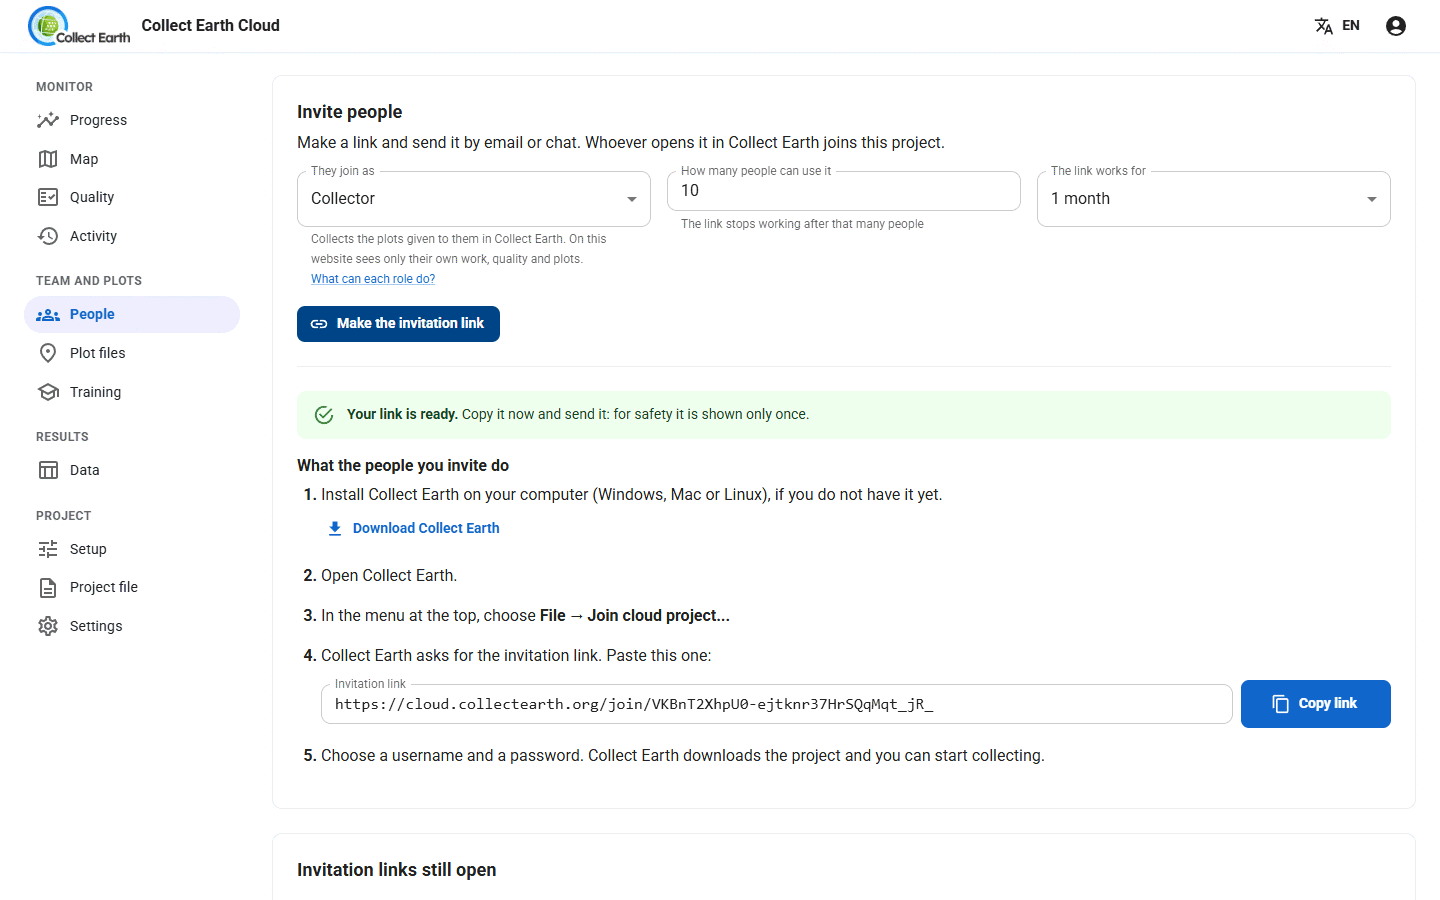
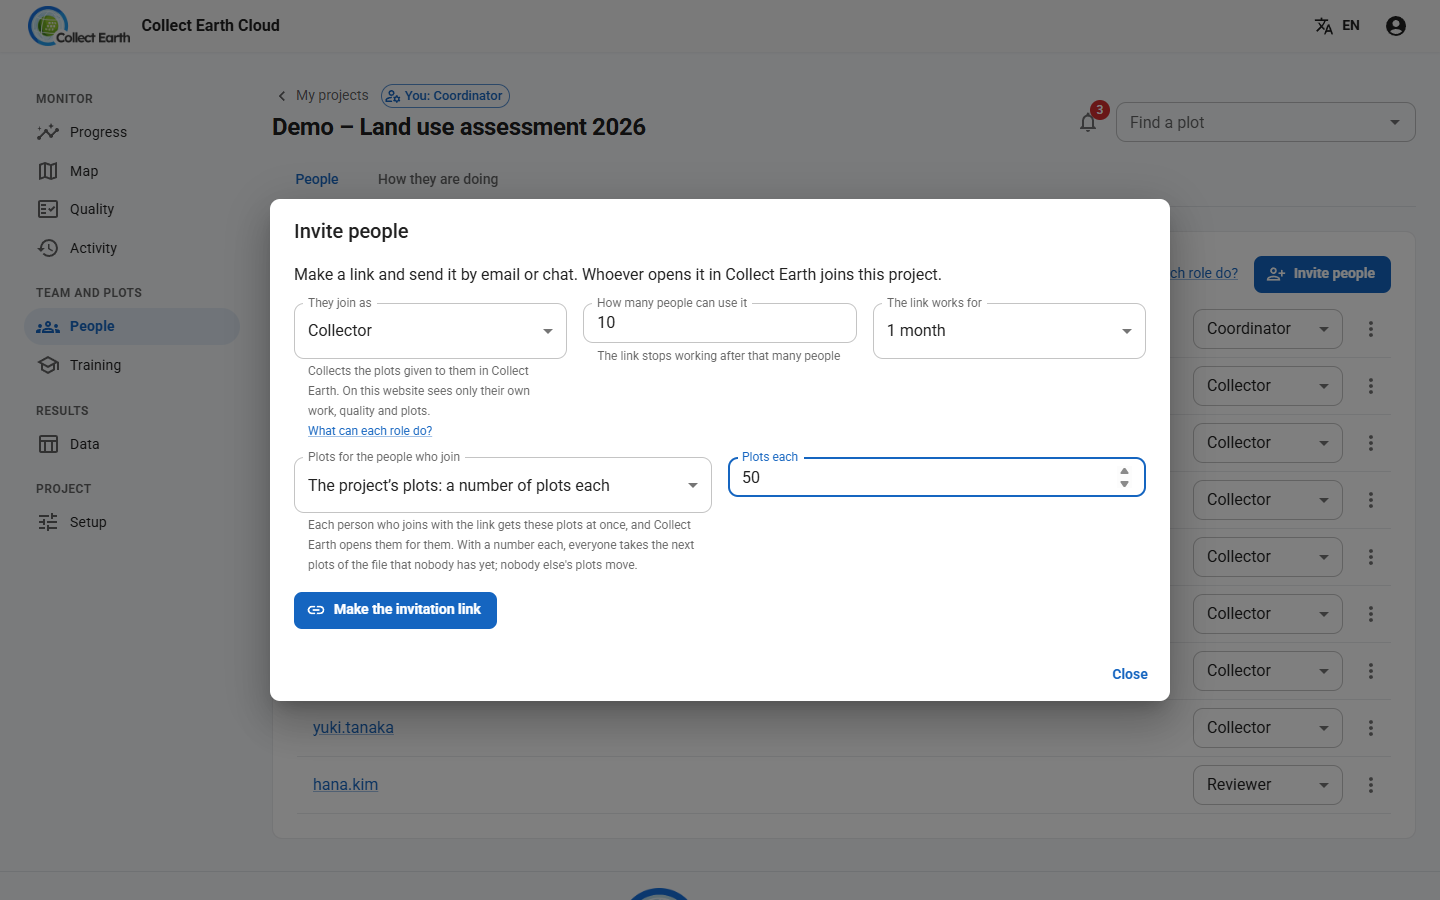
Website: new screenshots of the dashboard and of Collect Earth
Every dashboard screenshot is retaken with Setup in the sidebar: the project's plots, the
invitation that gives plots, the division of the project's plots, a training set for the whole
team, the quality figures. The desktop ones show the Explorer button, the four settings tabs
and the cloud accounts under Data storage. All from invented demo data, with local paths and
addresses masked. Captions follow the new pictures; the export's third format is CSV for Collect.

Claude-Session: https://claude.ai/code/session_015tsWZ6qFfmCXDKURC7KrcT

diff --git a/guide/coordinators.html b/guide/coordinators.html
@@ -109,16 +109,16 @@
   <p>No plot file yet? <span class="ui">Design the plots</span> makes one for you: draw plots <span class="ui">At random</span>, <span class="ui">On a grid</span> or <span class="ui">At random within strata</span> in an area, or take them from SIGRID, the global systematic grid, by country, province or district. <a href="sampling.html">Designing the sample</a> explains these, and the Grid Generator on Google Earth Engine, which adds elevation, climate, soil and more to each plot.</p>
   <p>To turn plots into hectares, give the areas in <span class="ui">Setup › Areas</span>: choose the question or the plot-file columns that make the strata (a province, a forest class…) and type each stratum's area, give <span class="ui">One total area</span>, or drop an <code>areas_per_attribute.csv</code>. The analysis, the IPCC uncertainty and the downloads then share each stratum's area among its assessed plots.</p>
   <p>Someone going where there is no internet, or a project leaving the cloud? Under <span class="ui">Download for working alone</span>, choose <span class="ui">All the project's plots</span> or one person's plots and press <span class="ui">Download the project file</span>. Collect Earth opens it as a project of its own, with no server. The work comes back when they send the computer's records to the cloud project, or when you import their export on the <span class="ui">Data</span> tab.</p>
-  <figure><img src="../img/screens/plot-files.png" alt="The plot files of a project" loading="lazy"><figcaption>The plot files of a project.</figcaption></figure>
+  <figure><img src="../img/screens/plot-files.png" alt="Setup › Plots" loading="lazy"><figcaption>The project’s plots, the download for working alone, and the plot files.</figcaption></figure>
 
   <h2 id="people">Inviting people</h2>
   <ol class="steps">
-    <li>On the <span class="ui">People</span> tab, under <span class="ui">Invite people</span>, choose how they join: <span class="ui">Collector</span>, <span class="ui">Reviewer</span> or <span class="ui">Coordinator</span>.</li>
+    <li>On the <span class="ui">People</span> tab, press <span class="ui">Invite people</span> and choose how they join (<span class="ui">They join as</span>): <span class="ui">Collector</span>, <span class="ui">Reviewer</span> or <span class="ui">Coordinator</span>.</li>
     <li>Choose <span class="ui">How many people can use it</span> and how long <span class="ui">The link works for</span>. One link for many people works well for a training room.</li>
     <li>Choose the <span class="ui">Plots for the people who join</span>: <span class="ui">None: I give them plots later</span>, a whole plot file, or a number of plots each (<span class="ui">Plots each</span>). With a number, each person who joins takes the next plots nobody has yet, and Collect Earth opens them at once.</li>
     <li>Press <span class="ui">Make the invitation link</span> and copy it. It is shown only once. Send it by email or chat.</li>
   </ol>
-  <figure><img src="../img/screens/invite.png" alt="Making an invitation link" loading="lazy"><figcaption>One link can invite a whole team.</figcaption></figure>
+  <figure><img src="../img/screens/invite.png" alt="The Invite people dialog" loading="lazy"><figcaption>One link can invite a whole team, and give each person their plots as they join.</figcaption></figure>
   <p>The person who opens the link sees how to join: install Collect Earth, join the project from its menu, paste the link, and choose a username and password. Collect Earth then downloads the project and their plots by itself. See <a href="interpreters.html#cloud">joining a cloud project</a> in the interpreters' guide. Each coordinator gets an email when someone joins: the first one at once, then at most one an hour for each project.</p>
   <p>Open links are listed under <span class="ui">Invitation links still open</span>; <span class="ui">Stop this link</span> closes one. Under <span class="ui">People in this project</span> you can change someone's role, remove them, or <span class="ui">Leave out of the results</span>.</p>
 
@@ -132,7 +132,7 @@
   </ul>
   <p>Press <span class="ui">Preview</span> to see the result, then <span class="ui">Apply</span>. You can still give one plot file whole to people (<span class="ui">Who collects</span>, on its row) or divide one file alone (<span class="ui">Divide plots</span>). <span class="ui">Take plots to assess yourself</span> gives you a number of plots nobody holds, of one value of a column if you like.</p>
   <p>Each person's plots reach their Collect Earth by themselves, as one list: at the start, and then within five minutes of any change you make here. You don't need to send files or tell people to refresh anything. A plot taken away from someone while they still have work on it to send stays with them until that work is sent.</p>
-  <figure><img src="../img/screens/give-out.png" alt="Dividing plots between people" loading="lazy"><figcaption>Divide the plots between people, with an overlap for blind quality checks.</figcaption></figure>
+  <figure><img src="../img/screens/give-out.png" alt="Dividing the project’s plots between people" loading="lazy"><figcaption>Divide the project’s plots between people once, with an overlap for blind quality checks if you like.</figcaption></figure>
   <p>When someone leaves or falls behind, move their plots; what they submitted always stays with them:</p>
   <ul>
     <li><span class="ui">Move unfinished plots to…</span>, on a plot file's page, hands all of a person's remaining plots to someone else.</li>
@@ -184,7 +184,7 @@
     <li><strong>In Collect Earth</strong>: at its next sync, each person's Collect Earth deletes its own records of the training plots, takes the training file away and opens their own plots.</li>
   </ul>
   <p>The report holds the answers plot by plot, which are deleted after: print it or save it first. <span class="ui">Delete the set</span>, instead, deletes everything, the results too.</p>
-  <figure><img src="../img/screens/training.png" alt="The Training tab" loading="lazy"><figcaption>Calibration and learning sets, kept apart from the real data.</figcaption></figure>
+  <figure><img src="../img/screens/training.png" alt="Adding a training set" loading="lazy"><figcaption>A training set for the whole team: copies of 20 of the project’s plots, kept apart from the real data.</figcaption></figure>
 
   <h2 id="mapathon">A mapathon to start: train together, then start for real</h2>
   <p>Many teams start a project with a mapathon: everyone in one room, or on one call, for a day or two, assessing the same plots and talking about them. These first days are for testing: the survey, the imagery, the plot layout, and how each person reads the land. Their answers should not end up in the project's data. Here is how to run them so that nothing has to be cleaned up afterwards.</p>

diff --git a/guide/interpreters.html b/guide/interpreters.html
@@ -155,13 +155,13 @@
       <tbody>
         <tr><td>CSV (Excel)</td><td>A spreadsheet or R. Tick <span class="ui">Include labels for code attributes</span> for readable answers.</td></tr>
         <tr><td>XML (compressed)</td><td>Moving plots to another Collect Earth, or into a cloud project</td></tr>
-        <tr><td>Collect backup</td><td>Opening the data in Open Foris Collect</td></tr>
+        <tr><td>CSV for Collect</td><td>Opening the data in Open Foris Collect: every column, with the positions of the codes</td></tr>
         <tr><td>KML</td><td>Seeing plots and answers in Google Earth</td></tr>
       </tbody>
     </table>
   </div>
   <p>You can export all records, only those changed since the last export, those changed since a date, or a filtered set.</p>
-  <figure><img src="../img/screens/desktop-export.png" alt="The export dialog" loading="lazy"><figcaption>Export to CSV, compressed XML, a Collect backup or KML.</figcaption></figure>
+  <figure><img src="../img/screens/desktop-export.png" alt="The export dialog" loading="lazy"><figcaption>Export to CSV, compressed XML, CSV for Collect or KML.</figcaption></figure>
   <p><span class="ui">Import data (ZIP or CSV)</span> brings in another Collect Earth's compressed XML export (it asks what to do with plots you already have), or changes to some answers from a CSV.</p>
   <p>With SQLite, Collect Earth backs up its database each time it closes and keeps the last ten (<span class="ui">Settings › Data storage › Open backup folder</span>). Now and then, also export a compressed XML and keep it somewhere else.</p>
 
